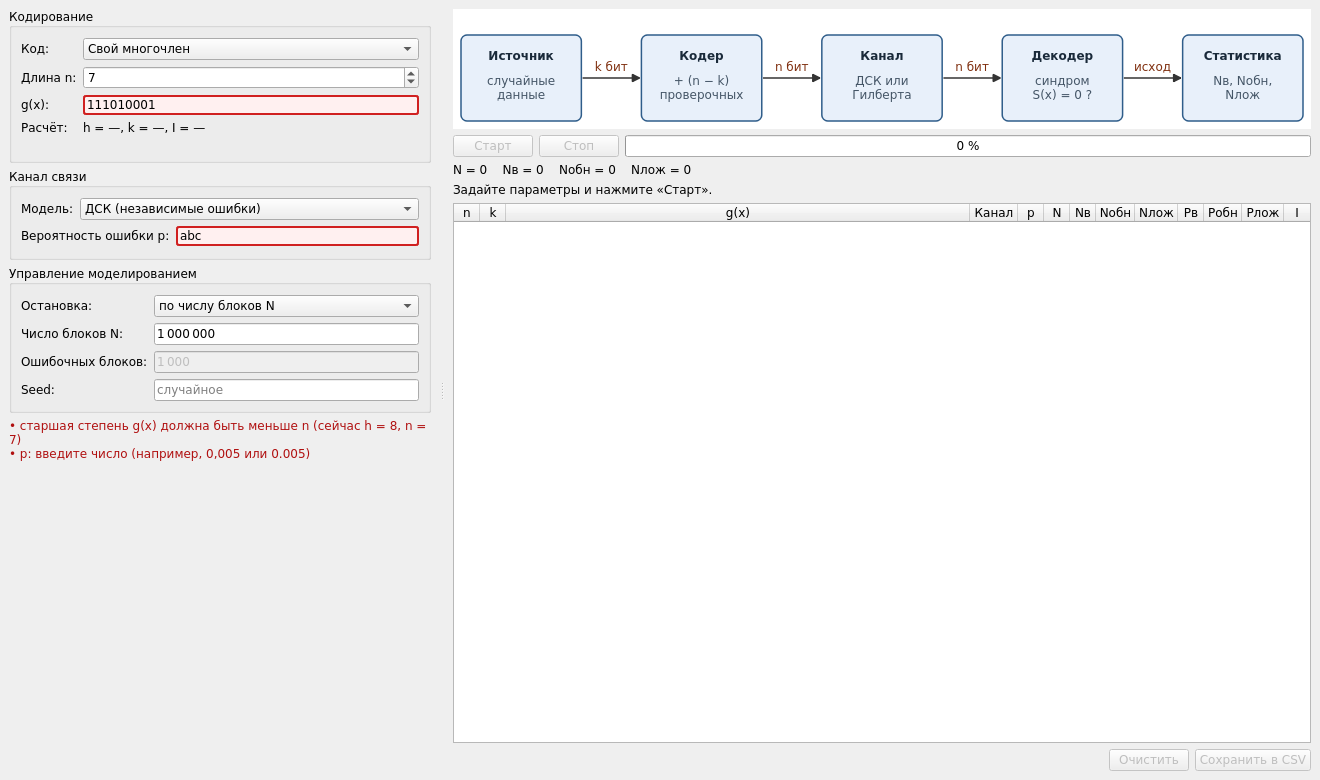
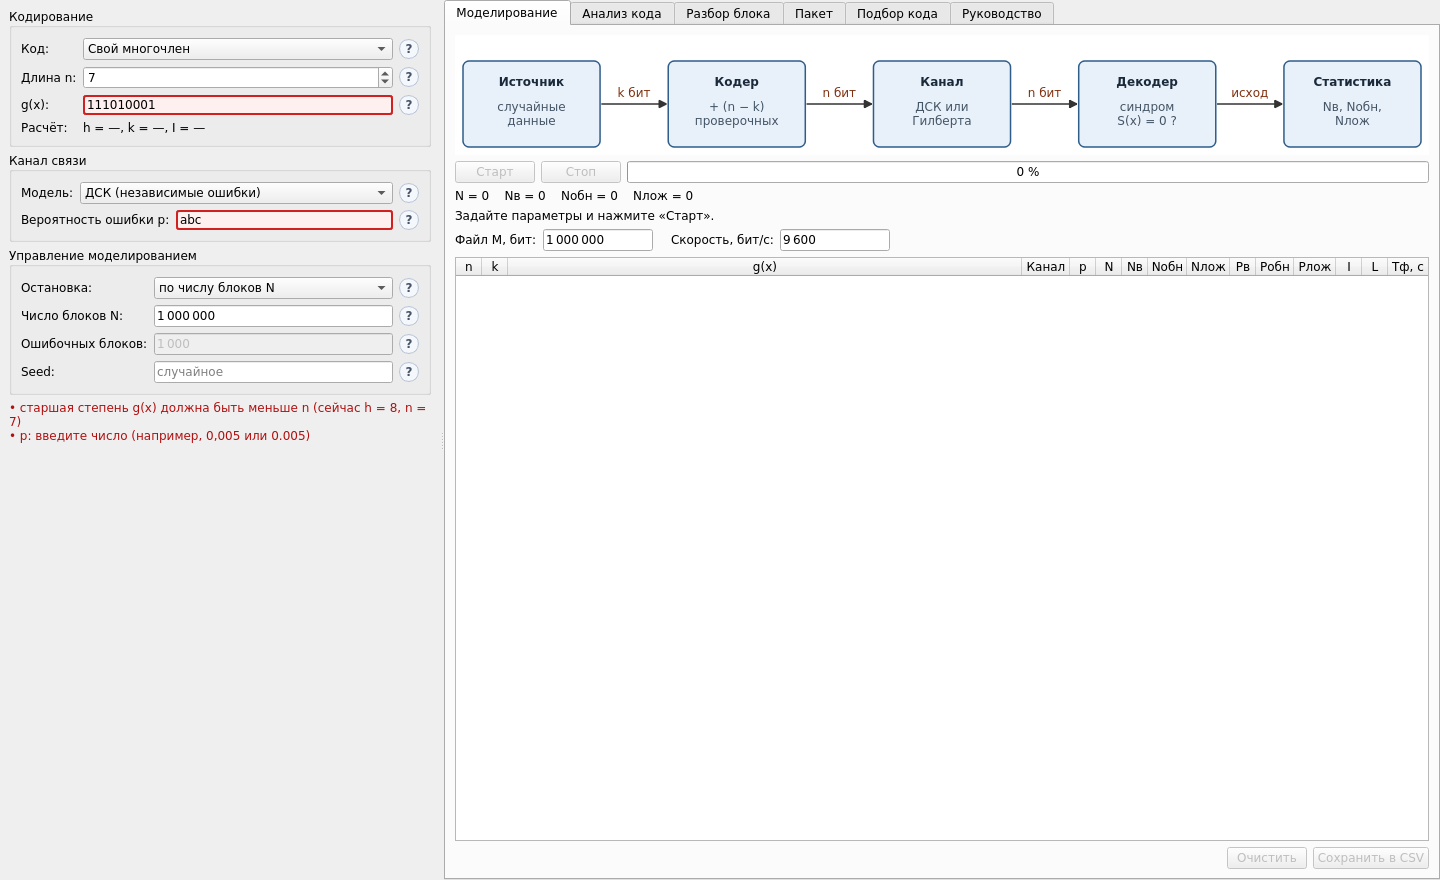
update readme and screenshots

Changed region(s): [[0.0, 0.0, 1.0, 1.0]]

diff --git a/README.md b/README.md
@@ -4,7 +4,7 @@
 
 **Исследование циклических кодов (CRC) в режиме обнаружения ошибок**
 
-ДСК и канал Гилберта · оценки Pв, Pобн, Pлож · CSV · Windows и Linux
+ДСК и канал Гилберта · анимированный разбор блока · анализ кода · пакетные опыты · подбор кода · Windows и Linux
 
 <a href="https://github.com/AxellorWave/crcsim/releases/latest"><img alt="Последний релиз" src="https://img.shields.io/github/v/release/AxellorWave/crcsim?style=flat-square&label=%D1%80%D0%B5%D0%BB%D0%B8%D0%B7"></a>
 
@@ -27,7 +27,9 @@
   - [Установка](#установка)
   - [Первый опыт](#первый-опыт)
   - [Параметры](#параметры)
+  - [Подсказки и встроенное руководство](#подсказки-и-встроенное-руководство)
   - [Как читать результаты](#как-читать-результаты)
+  - [Разбор блока](#разбор-блока)
   - [Анализ кода](#анализ-кода)
   - [Сохранение в CSV](#сохранение-в-csv)
   - [Время передачи файла](#время-передачи-файла)
@@ -79,6 +81,12 @@
 
 Дробные числа можно вводить и с точкой, и с запятой.
 
+### Подсказки и встроенное руководство
+
+У каждого параметра есть кнопка «?»: она открывает пояснение — что значит параметр, какие значения допустимы, пример и как он влияет на результат. Те же пояснения показываются во всплывающей подсказке при наведении на поле. Полное руководство пользователя открывается на вкладке «Руководство».
+
+<img src="docs/figures/help_popup.png" alt="Пояснение к параметру" width="800">
+
 ### Как читать результаты
 
 | Столбец | Значение |
@@ -92,6 +100,16 @@
 
 После опыта в строке состояния выводятся использованный seed, измеренная доля искажённых бит, среднее число попыток передачи L = N/Nв и для ДСК — теоретическое значение Pв = (1 − p)ⁿ.
 
+### Разбор блока
+
+Вкладка «Разбор блока» показывает в анимации, что происходит с одним блоком: данные сдвигаются на h разрядов и делятся на g(x) столбиком, остаток дописывается к данным, канал портит биты, декодер делит принятое слово и получает синдром. В конце — вердикт: «ошибок нет», «ошибка обнаружена» или «ложный приём».
+
+- данные D и вектор ошибок E меняются кликом по клеткам; кнопки «Случайные данные», «Без ошибок», «Ошибка из канала» и «Ложный приём»;
+- «Воспроизвести», «Пауза», «Шаг», «Назад», «Сначала» и ползунок скорости; под каждым шагом — пояснение;
+- наглядный режим доступен для n ≤ 31, флажок «Текстом» показывает тот же разбор обычным текстом.
+
+<img src="docs/figures/walkthrough.gif" alt="Анимация разбора блока" width="900">
+
 ### Анализ кода
 
 Вкладка «Анализ кода» считает свойства выбранного кода без моделирования. Кнопка «Рассчитать» перебирает 2^min(k, h) слов кода или дуального кода (для длинных кодов — несколько секунд) и показывает:
@@ -101,6 +119,8 @@
 - точную вероятность ложного приёма в ДСК Pлож(p) = Σ A_w p^w (1 − p)^(n − w) — графиком в логарифмическом масштабе и числом для заданного p.
 
 На график наносятся строки таблицы результатов для этого же кода на ДСК: точки — измеренная Pлож, треугольники — оценка 3/N для опытов без ложных приёмов. Для кодов с min(k, h) ≤ 22 подсказка к ячейке Pлож в таблице результатов сразу показывает теоретическое значение, для остальных — после расчёта на вкладке.
+
+<img src="docs/figures/analysis.png" alt="Вкладка «Анализ кода»" width="900">
 
 ### Сохранение в CSV
 
@@ -142,6 +162,8 @@ n;g;channel;p;p_gb;p_bg;p_bad;p_good;blocks;errors;seed;label
 
 Регистр в названиях столбцов не важен. План в JSON — массив объектов с теми же полями или объект `{"experiments": [...]}`; значения — числа или строки. Ошибка в плане сообщается с номером строки, например «строка 4: p должна быть в интервале (0; 0,5]».
 
+<img src="docs/figures/batch.png" alt="Вкладка «Пакет» во время выполнения плана из методички" width="900">
+
 ### Подбор кода
 
 Вкладка «Подбор кода» моделирует все известные коды выбранной длины n (или всех длин) на канале, заданном в панели «Канал связи», с одинаковыми N и seed. Для каждого кода показываются h, I, Nлож, оценка Pлож, её верхняя граница с доверием 95 %, L, Tф и вывод:
@@ -151,6 +173,8 @@ n;g;channel;p;p_gb;p_bg;p_bad;p_good;blocks;errors;seed;label
 - **пограничный — увеличьте N** — оценка не выше требования, а граница выше: опыт слишком короткий, чтобы решить.
 
 Среди кодов, выполнивших требование, отмечаются лучший по избыточности I и лучший по времени передачи Tф, а под таблицей выводится заключение.
+
+<img src="docs/figures/selection.png" alt="Вкладка «Подбор кода»" width="900">
 
 ### Консольная версия
 
@@ -338,7 +362,7 @@ pacman -S make mingw-w64-ucrt-x86_64-gcc mingw-w64-ucrt-x86_64-pkgconf mingw-w64
 
 ```text
 crcsim/
-├── core/        ядро: многочлены, кодер, декодер, каналы, моделирование, оценки, CSV
+├── core/        ядро: многочлены, кодер, декодер, каналы, моделирование, оценки, анализ кода, планы опытов, подбор кода
 ├── console/     консольная версия
 ├── gui/         графическая версия на Qt 6 Widgets
 ├── tests/       модульные тесты
